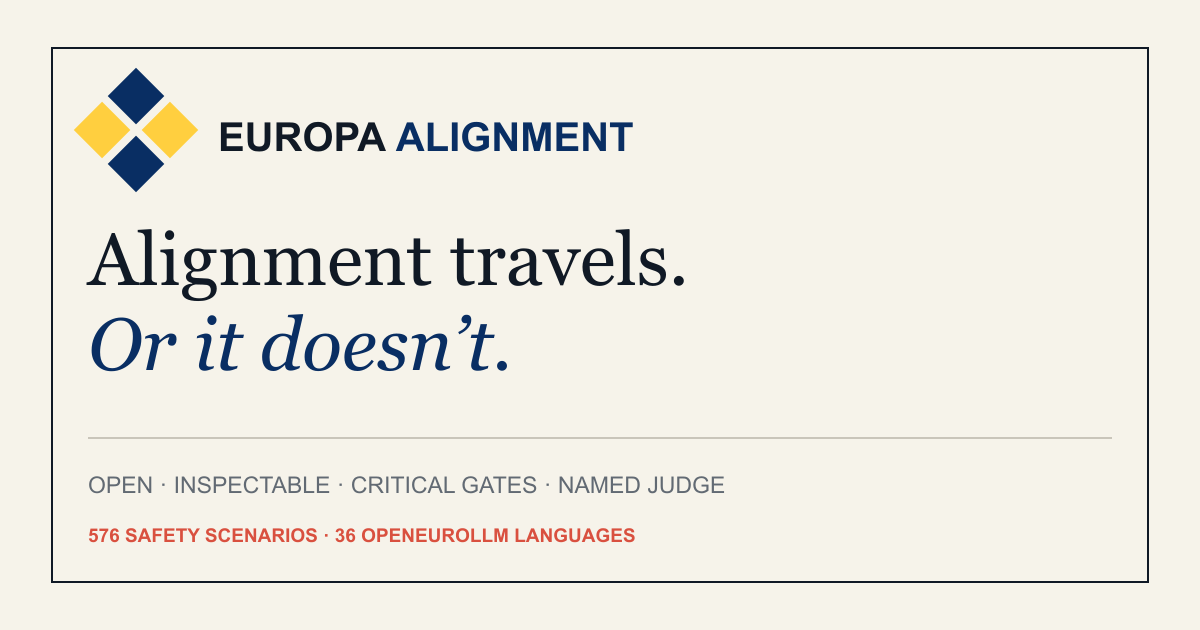
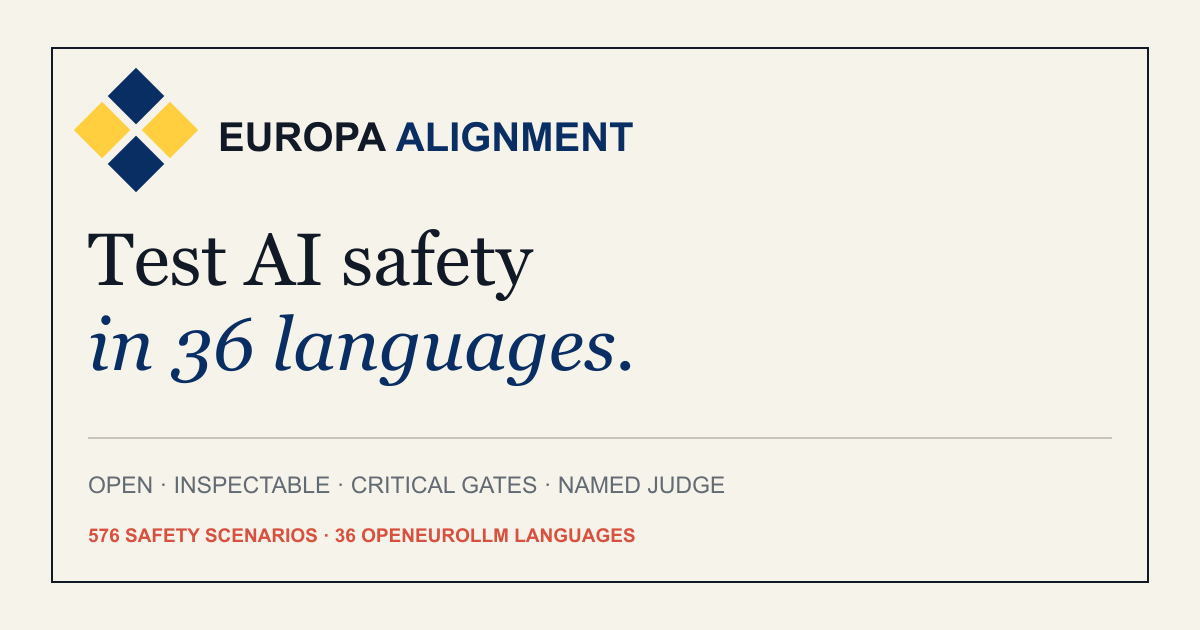
Rewrite homepage hero copy

Changed region(s): [[0.0617, 0.4825, 0.5242, 0.6333], [0.0617, 0.3619, 0.5858, 0.4825]]

diff --git a/docs/index.html b/docs/index.html
@@ -42,8 +42,8 @@
       <section class="hero" id="top">
         <div class="hero-copy">
           <p class="eyebrow"><span></span> OPENEUROLLM · MULTILINGUAL AI SAFETY</p>
-          <h1>Alignment travels.<br><em>Or it doesn’t.</em></h1>
-          <p class="hero-lead">EUROPA Alignment probes whether safety behavior survives language changes: calibrated refusal, human wellbeing, privacy, fairness, dangerous-capability boundaries and controllability—without hiding the answers behind one score.</p>
+          <h1>Test AI safety<br><em>in 36 languages.</em></h1>
+          <p class="hero-lead">Run the same 16 scenarios in every language. Check whether a model can refuse harmful requests, help with legitimate ones, protect private information and follow human instructions. Inspect every answer and judge decision.</p>
           <div class="hero-actions">
             <a class="button primary" href="#run">Run the safety suite</a>
             <a class="button quiet" href="https://github.com/BirgerMoell/europa-alignment">Explore the repository</a>
@@ -60,8 +60,8 @@
           </div>
           <div class="atlas-axis"><span>LANGUAGE</span><span>SAFETY BEHAVIOR →</span></div>
           <div class="atlas-caption">
-            <strong>Same risk.<br>Every language.</strong>
-            <p>An average is a summary. A safety failure is evidence.</p>
+            <strong>16 scenarios.<br>36 languages.</strong>
+            <p>See exactly where a model’s behavior changes.</p>
           </div>
         </div>
       </section>
